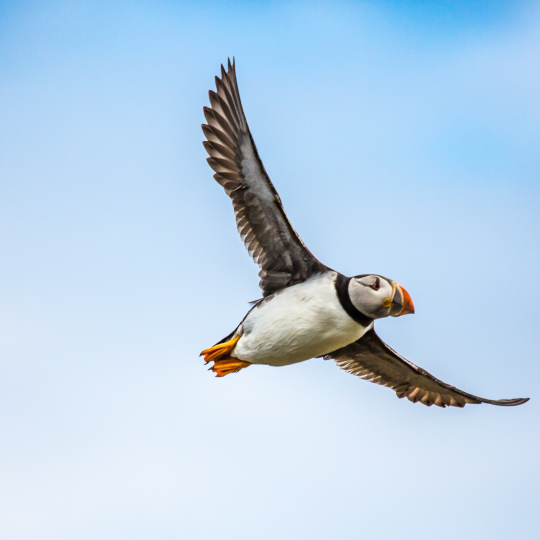
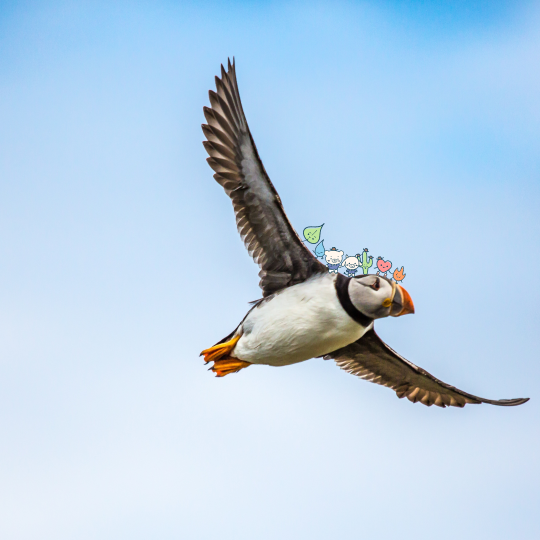
update bird image and homepage

Changed region(s): [[0.563, 0.4148, 0.7704, 0.5333]]

diff --git a/index.html b/index.html
@@ -117,7 +117,7 @@
 </head>
 <body>
     <div class="container">
-        <div class="title">2025 US TCYL Humanitarian Leadership Conference<br>Which TC Sprite / Mascot Are You?</div> 
+        <div class="title">2025 US TCYL Humanitarian Leadership Conference<br><strong style="font-size:2em">Which TC Sprite / Mascot Are You?</strong></div> 
         <img id="homescreen" style="padding-bottom: 15px" src="smaller_images/homepage2.png" alt="Story Image"/>
         <a href="#" class="start-button" onclick="startGame()">Start</a>
         
